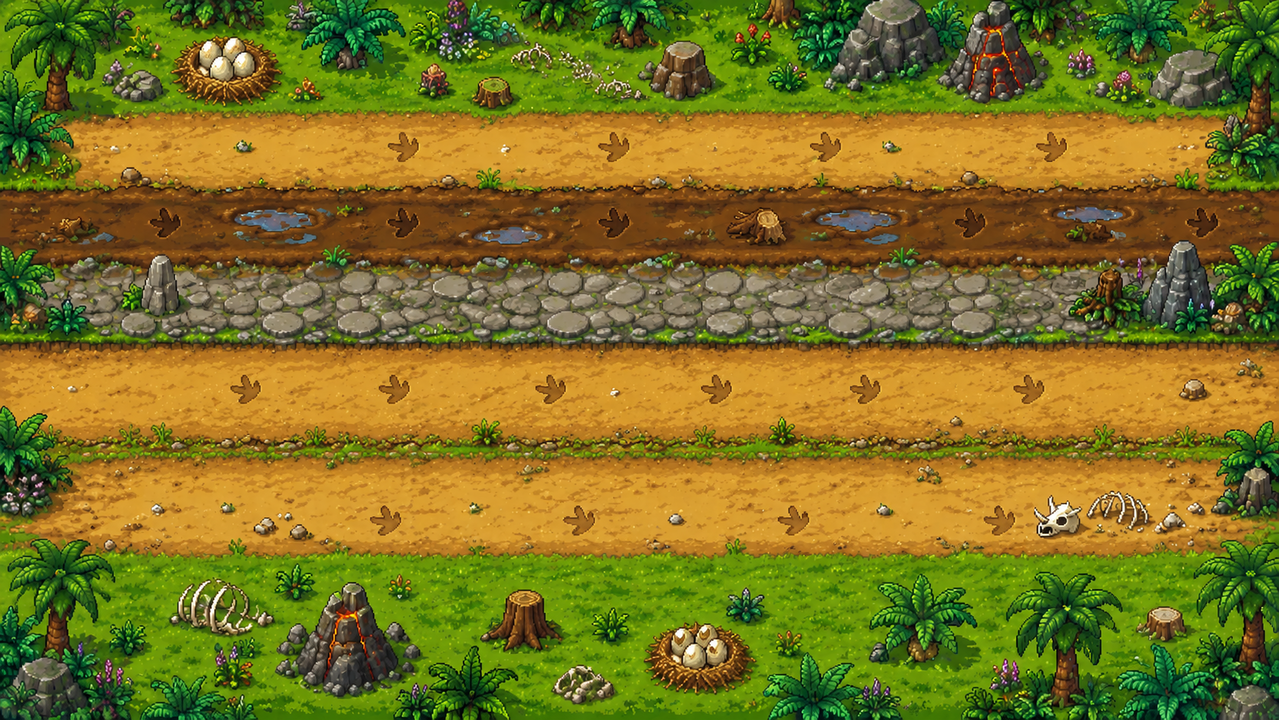
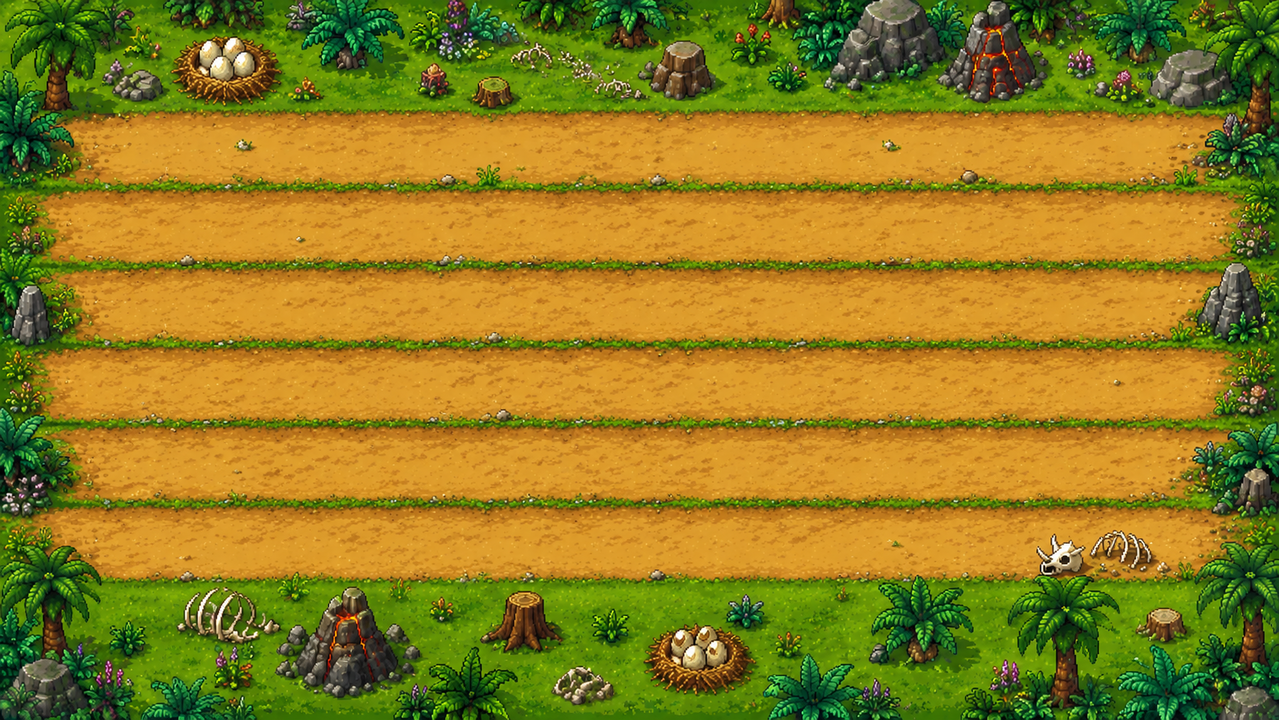
Bg level 1

diff --git a/src/core/CGAME.cpp b/src/core/CGAME.cpp
@@ -1,5 +1,6 @@
 #include "CGAME.h"
 #include "LevelConfig.h"
+#include "HighScore.h"
 #include <cstdio>
 #include <cmath>
 
@@ -44,10 +45,11 @@ void CGAME::setupUI() {
     mDeadText.setPosition(Win_W / 2.f, Win_H / 2.f);
 
     // Bảng VICTORY
-    float vboxW = 500.f, vboxH = 200.f;
+    // Bảng VICTORY
+    float vboxW = 500.f, vboxH = 260.f;
     mVictoryBox.setSize(sf::Vector2f(vboxW, vboxH));
     mVictoryBox.setFillColor(sf::Color(0, 0, 0, 200));
-    mVictoryBox.setOutlineColor(sf::Color(255, 215, 0));  // viền vàng
+    mVictoryBox.setOutlineColor(sf::Color(255, 215, 0));
     mVictoryBox.setOutlineThickness(3.f);
     mVictoryBox.setOrigin(vboxW / 2.f, vboxH / 2.f);
     mVictoryBox.setPosition(Win_W / 2.f, Win_H / 2.f);
@@ -55,22 +57,35 @@ void CGAME::setupUI() {
     mVictoryTitle.setFont(mFont);
     mVictoryTitle.setString("VICTORY!");
     mVictoryTitle.setCharacterSize(52);
-    mVictoryTitle.setFillColor(sf::Color(255, 215, 0));  // chữ vàng
+    mVictoryTitle.setFillColor(sf::Color(255, 215, 0));
     sf::FloatRect vt = mVictoryTitle.getLocalBounds();
-    mVictoryTitle.setOrigin(vt.left + vt.width/2.f, vt.top + vt.height/2.f);
-    mVictoryTitle.setPosition(Win_W / 2.f, Win_H / 2.f - 40.f);
+    mVictoryTitle.setOrigin(vt.left + vt.width / 2.f, vt.top + vt.height / 2.f);
+    mVictoryTitle.setPosition(Win_W / 2.f, Win_H / 2.f - 85.f);
 
     mVictorySubText.setFont(mFont);
     mVictorySubText.setString("You escaped through time!\nPress R to play again");
     mVictorySubText.setCharacterSize(20);
     mVictorySubText.setFillColor(sf::Color::White);
     sf::FloatRect vs = mVictorySubText.getLocalBounds();
-    mVictorySubText.setOrigin(vs.left + vs.width/2.f, vs.top + vs.height/2.f);
-    mVictorySubText.setPosition(Win_W / 2.f, Win_H / 2.f + 40.f);\
+    mVictorySubText.setOrigin(vs.left + vs.width / 2.f, vs.top + vs.height / 2.f);
+    mVictorySubText.setPosition(Win_W / 2.f, Win_H / 2.f - 20.f);
+
     mVictoryScore.setFont(mFont);
-    mVictoryScore.setCharacterSize(28);
-    mVictoryScore.setFillColor(sf::Color(255, 215, 0));
-    mVictoryScore.setPosition(Win_W / 2.f, Win_H / 2.f + 80.f);
+    mVictoryScore.setString("SCORE: 0");
+    mVictoryScore.setCharacterSize(26);
+    mVictoryScore.setFillColor(sf::Color::White);
+    sf::FloatRect sc = mVictoryScore.getLocalBounds();
+    mVictoryScore.setOrigin(sc.left + sc.width / 2.f, sc.top + sc.height / 2.f);
+    mVictoryScore.setPosition(Win_W / 2.f, Win_H / 2.f + 45.f);
+
+    mVictoryHighScore.setFont(mFont);
+    mVictoryHighScore.setString("HIGH SCORE: 0");
+    mVictoryHighScore.setCharacterSize(26);
+    mVictoryHighScore.setFillColor(sf::Color(255, 215, 0));
+    sf::FloatRect hs = mVictoryHighScore.getLocalBounds();
+    mVictoryHighScore.setOrigin(hs.left + hs.width / 2.f, hs.top + hs.height / 2.f);
+    mVictoryHighScore.setPosition(Win_W / 2.f, Win_H / 2.f + 85.f);
+
 
     // Bảng nhập tên save
     float sboxW = 450.f, sboxH = 180.f;
@@ -498,6 +513,13 @@ void CGAME::checkFinish() {
             mPlayer.setFinish(true);
             mLevelMusic.stop();
             mVictorySound.play();
+
+            bool isNewHighScore = HighScore::updateIfHigher(mScore);
+
+            if (isNewHighScore) {
+                printf("NEW HIGH SCORE: %d\n", mScore);
+            }
+
             printf("VICTORY!\n");
             return;
         }
@@ -574,12 +596,17 @@ void CGAME::render() {
         mWindow.draw(mVictoryTitle);
         mWindow.draw(mVictorySubText);
 
-        // Cập nhật và vẽ score
-        mVictoryScore.setString("Final Score: " + std::to_string(mScore));
-        sf::FloatRect sb = mVictoryScore.getLocalBounds();
-        mVictoryScore.setOrigin(sb.left + sb.width/2.f, sb.top + sb.height/2.f);
-        mVictoryScore.setPosition(Win_W / 2.f, Win_H / 2.f + 80.f);
+        mVictoryScore.setString("SCORE: " + std::to_string(mScore));
+        sf::FloatRect sc = mVictoryScore.getLocalBounds();
+        mVictoryScore.setOrigin(sc.left + sc.width / 2.f, sc.top + sc.height / 2.f);
+
+        int highScore = HighScore::load();
+        mVictoryHighScore.setString("HIGH SCORE: " + std::to_string(highScore));
+        sf::FloatRect hs = mVictoryHighScore.getLocalBounds();
+        mVictoryHighScore.setOrigin(hs.left + hs.width / 2.f, hs.top + hs.height / 2.f);
+
         mWindow.draw(mVictoryScore);
+        mWindow.draw(mVictoryHighScore);
     }
 
     if (mEnteringSaveName)

diff --git a/src/core/HighScore.cpp b/src/core/HighScore.cpp
@@ -1,0 +1,42 @@
+#include "HighScore.h"
+#include <fstream>
+#include <filesystem>
+
+std::string HighScore::getFilePath() {
+    return "saves/highscore.txt";
+}
+
+int HighScore::load() {
+    std::ifstream file(getFilePath());
+
+    if (!file.is_open()) {
+        return 0;
+    }
+
+    int highScore = 0;
+    file >> highScore;
+    return highScore;
+}
+
+void HighScore::save(int score) {
+    std::filesystem::create_directories("saves");
+
+    std::ofstream file(getFilePath());
+
+    if (!file.is_open()) {
+        return;
+    }
+
+    file << score;
+}
+
+bool HighScore::updateIfHigher(int score) {
+    int currentHighScore = load();
+
+    if (score > currentHighScore) {
+        save(score);
+        return true;
+    }
+
+    return false;
+}

diff --git a/src/levels/LevelConfig.cpp b/src/levels/LevelConfig.cpp
@@ -7,26 +7,27 @@ LevelConfig getLevel1() {
         "assets/sounds/lv1_sd/music_bg1.ogg",
         "assets/sprites/lv1_sp/traffic/torch.png",
         "assets/sprites/lv1_sp/traffic/torch1.png",
-        10, 140,
+        80, 550,
         {
-                { ObstacleType::DINOSAUR, 150.f,  1.f, 215.f, "assets/sprites/lv1_sp/dino/dino1.png", 3, 300.f },
 
-                { ObstacleType::DINOSAUR, 200.f, -1.f, 310.f, "assets/sprites/lv1_sp/dino/dino2.png", 4, 250.f },
-                { ObstacleType::MAMMOTH,   90.f,  1.f, 310.f, "assets/sprites/lv1_sp/mammoth/MAMUT.png", 2, 450.f },
-
-                { ObstacleType::DINOSAUR, 120.f, -1.f, 480.f, "assets/sprites/lv1_sp/dino/dino3.png", 3, 350.f },
-                { ObstacleType::MAMMOTH,   80.f,  1.f, 480.f, "assets/sprites/lv1_sp/mammoth/MAMUT.png", 2, 480.f },
+                { ObstacleType::DINOSAUR, 150.f,  1.f, 220.f, "assets/sprites/lv1_sp/dino/dino1.png", 3, 420.f },
+                { ObstacleType::DINOSAUR, 200.f, -1.f, 315.f, "assets/sprites/lv1_sp/dino/dino2.png", 3, 430.f },
+                { ObstacleType::MAMMOTH, 90.f, 1.f, 405.f, "assets/sprites/lv1_sp/mammoth/MAMUT.png", 2, 620.f },
+                { ObstacleType::DINOSAUR, 120.f, -1.f, 500.f, "assets/sprites/lv1_sp/dino/dino3.png", 3, 430.f },
+                { ObstacleType::MAMMOTH, 80.f, 1.f, 80.f, "assets/sprites/lv1_sp/mammoth/MAMUT.png", 2, 620.f },
             },
             {
-                { AnimalType::BIRD, 150.f,  1.f, 90.f, "assets/sprites/lv1_sp/bird/bay.png", 2, 400.f },
-                { AnimalType::BIRD, 200.f, -1.f, 90.f, "assets/sprites/lv1_sp/bird/bay.png", 2, 350.f },
+                { AnimalType::BIRD, 150.f,  1.f, 115.f, "assets/sprites/lv1_sp/bird/bay.png", 2, 520.f },
+                { AnimalType::BIRD, 200.f, -1.f, 115.f, "assets/sprites/lv1_sp/bird/bay.png", 2, 520.f },
             }
     };
 }
 
 LevelConfig getLevel(int level) {
     switch (level) {
-    case 1: return getLevel1();
-    default: return getLevel1();
+    case 1:
+        return getLevel1();
+    default:
+        return getLevel1();
     }
 }

diff --git a/src/core/HighScore.h b/src/core/HighScore.h
@@ -1,0 +1,12 @@
+#pragma once
+#include <string>
+
+class HighScore {
+public:
+    static int load();
+    static void save(int score);
+    static bool updateIfHigher(int score);
+
+private:
+    static std::string getFilePath();
+};

diff --git a/src/levels/LevelConfig.h b/src/levels/LevelConfig.h
@@ -25,14 +25,15 @@ struct AnimalConfig {
     float spacing;
 };
 
+
 struct LevelConfig {
     int         level;
     std::string backgroundPath;
     std::string musicPath;
     std::string trafficRedPath;
     std::string trafficGreenPath;
-    float       trafficX;
-    float       trafficY;
+    float trafficX;
+    float trafficY;
     std::vector<LaneConfig>   lanes;
     std::vector<AnimalConfig> animals;
 };

diff --git a/src/core/CGAME.h b/src/core/CGAME.h
@@ -36,7 +36,7 @@ class CGAME {
     CANIMAL*  createAnimal(AnimalType type, float speed, float direction);
 
     // Traffic light
-    CTRAFFIC_LV1*            mTraffic= nullptr;
+    CTRAFFIC_LV1* mTraffic = nullptr;
 
     // Trạng thái
     bool                     mLevelCleared = false;
@@ -62,6 +62,7 @@ class CGAME {
     sf::Text mVictoryTitle;
     sf::Text mVictorySubText;
     sf::Text mVictoryScore;
+    sf::Text mVictoryHighScore;
 
     //Bảng nhập tên file save
     bool mEnteringSaveName = false;

diff --git a/src/obstacles/lv1/animal_lv1/CMAMMOTH.cpp b/src/obstacles/lv1/animal_lv1/CMAMMOTH.cpp
@@ -17,7 +17,7 @@ bool CMAMMOTH::loadSprite(const std::string& path, float x, float y) {
         2, 2,
         Frame_Time
     );
-    mSprite.setScale(2.f, 2.f);
+    mSprite.setScale(1.5f, 1.5f);
     mSprite.setPosition(x, y);
     return true;
 }